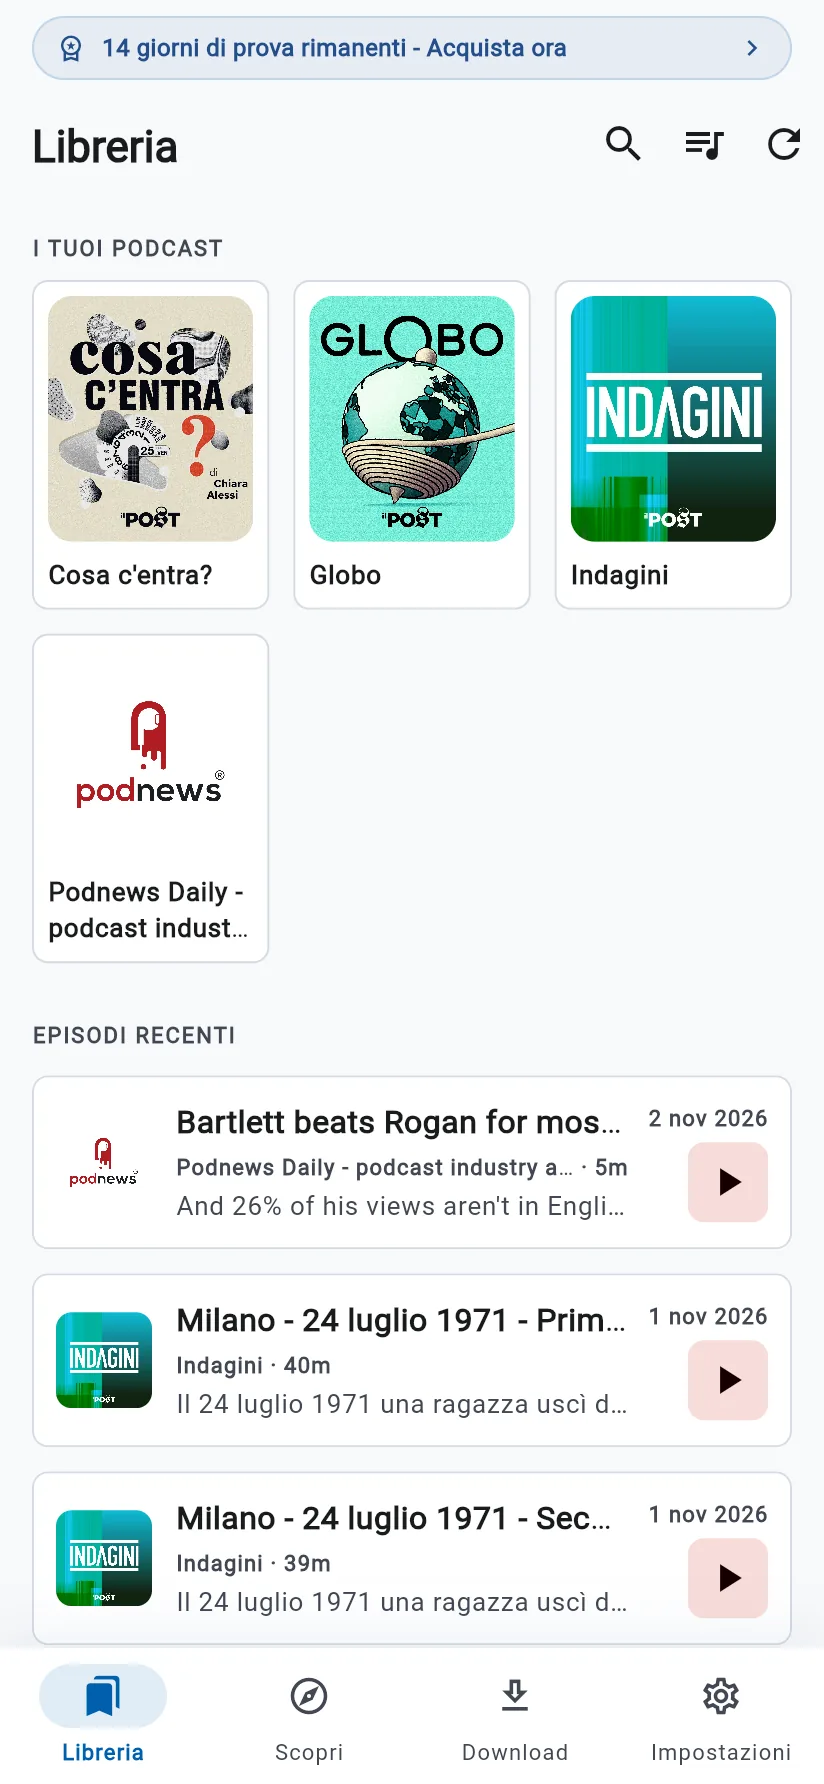
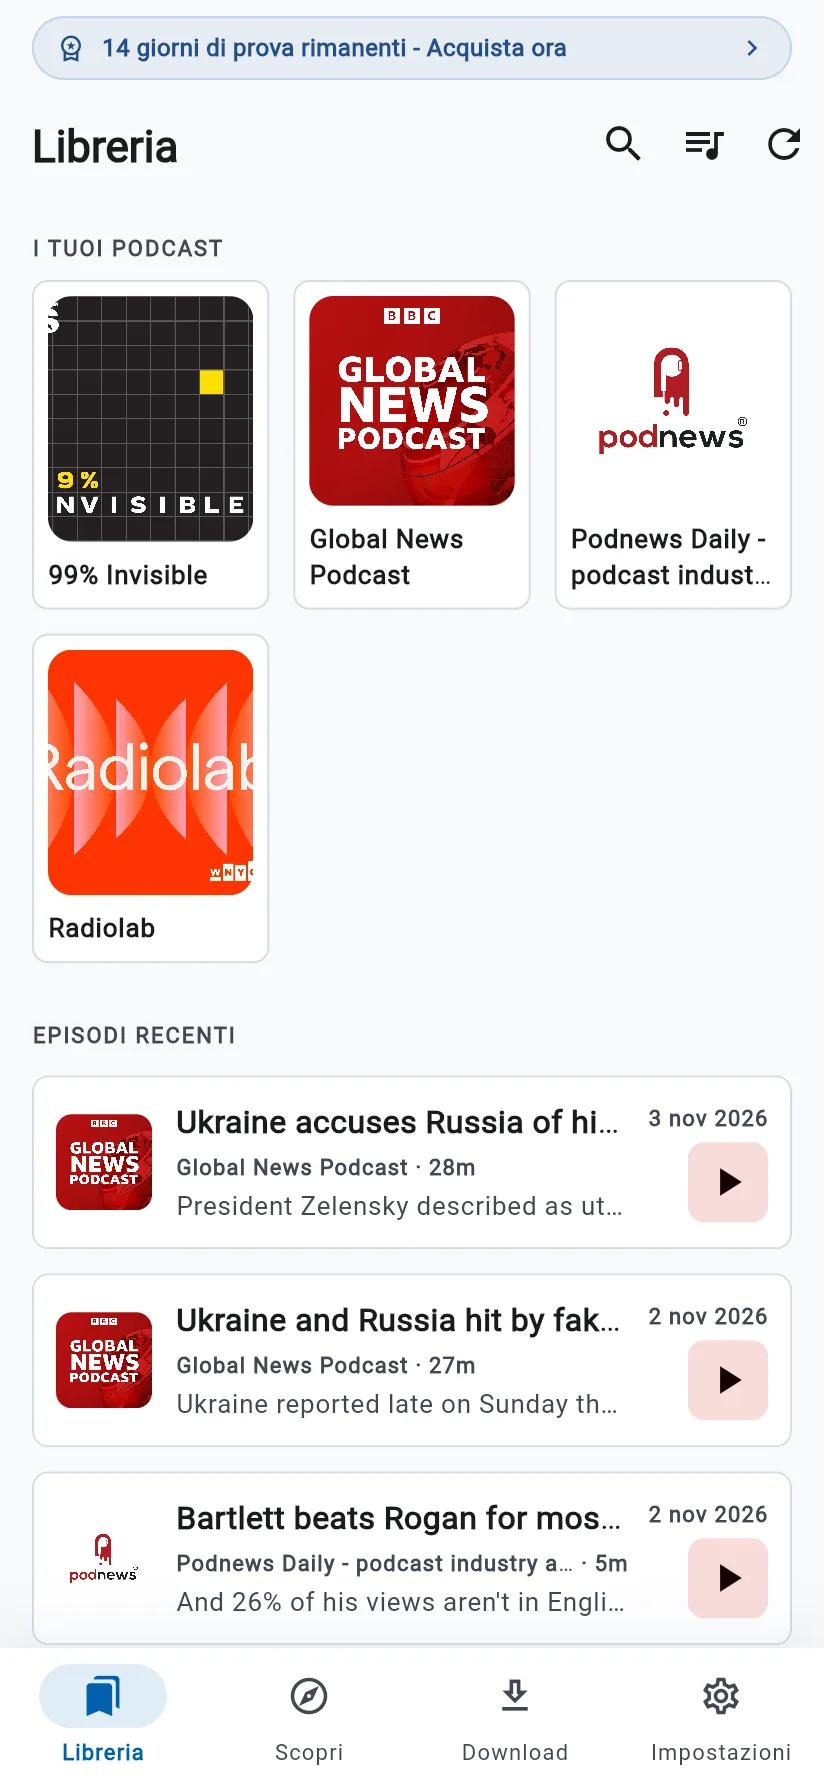
Use screenshots of non-Il Post shows
Library, show page and player now show 99% Invisible, BBC Global News,
Podnews Daily and Radiolab instead of Il Post podcasts. The player is
captured mid-playback rather than while loading.

Claude-Session: https://claude.ai/code/session_01WGthExGbRZ1bNLQH3kYrGq

diff --git a/index.html b/index.html
@@ -928,7 +928,7 @@
               <a class="btn btn--dark" href="https://play.google.com/store/apps/details?id=ch.pcngroup.podfolio&amp;referrer=utm_source%3Dsite%26utm_medium%3Dorganic%26utm_campaign%3Dilpost_it" target="_blank" rel="noopener" data-i18n="cta_play">Get it on Google Play</a>
             </div>
           <div class="front__picture" data-reveal style="--d:2">
-            <figure class="shot folio"><img src="screens/show.webp" width="824" height="1784" alt="The PodFolio web app showing Il Post's Globo: artwork, subscribe and share buttons, and its latest episodes" loading="lazy" decoding="async"></figure>
+            <figure class="shot folio"><img src="screens/show.webp" width="824" height="1784" alt="The PodFolio web app showing Radiolab: artwork, subscribe and share buttons, and its latest episodes" loading="lazy" decoding="async"></figure>
           </div>
           </div>
         </div>
@@ -967,8 +967,8 @@
         <div class="stage__sheet folio" id="stage-sheet"></div>
         <div class="stage__screens">
           <figure class="shot folio" id="p-library" role="tabpanel" aria-labelledby="t-library"><img src="screens/library.webp" width="824" height="1784" alt="Library: subscribed shows and recent episodes" loading="lazy" decoding="async"></figure>
-          <figure class="shot folio" id="p-show" role="tabpanel" aria-labelledby="t-show" hidden><img src="screens/show.webp" width="824" height="1784" alt="Show page for Il Post's Globo, with its episodes, subscribe button and share button" loading="lazy" decoding="async"></figure>
-          <figure class="shot folio" id="p-player" role="tabpanel" aria-labelledby="t-player" hidden><img src="screens/player.webp" width="824" height="1784" alt="Full player for an episode of Indagini, with skip, speed, sleep timer, queue and share controls" loading="lazy" decoding="async"></figure>
+          <figure class="shot folio" id="p-show" role="tabpanel" aria-labelledby="t-show" hidden><img src="screens/show.webp" width="824" height="1784" alt="Show page for Radiolab, with its episodes, subscribe button and share button" loading="lazy" decoding="async"></figure>
+          <figure class="shot folio" id="p-player" role="tabpanel" aria-labelledby="t-player" hidden><img src="screens/player.webp" width="824" height="1600" alt="Full player playing an episode of 99% Invisible, with skip, speed, sleep timer, queue and share controls" loading="lazy" decoding="async"></figure>
           <figure class="shot folio" id="p-settings" role="tabpanel" aria-labelledby="t-settings" hidden><img src="screens/settings.webp" width="824" height="1784" alt="Settings: Google sign-in for sync, Il Post subscriber sign-in, OPML import and export" loading="lazy" decoding="async"></figure>
         </div>
       </div>
@@ -1004,7 +1004,7 @@
         </div>
       </div>
       <div class="tile tile--3 folio" data-reveal style="--d:2">
-        <figure class="shot"><img src="screens/library.webp" width="824" height="1784" alt="Library with Il Post shows next to other podcasts" loading="lazy" decoding="async"></figure>
+        <figure class="shot"><img src="screens/library.webp" width="824" height="1784" alt="Library with subscribed shows and their recent episodes" loading="lazy" decoding="async"></figure>
       </div>
 
       <div class="stage-text stage-text--1" data-reveal>
